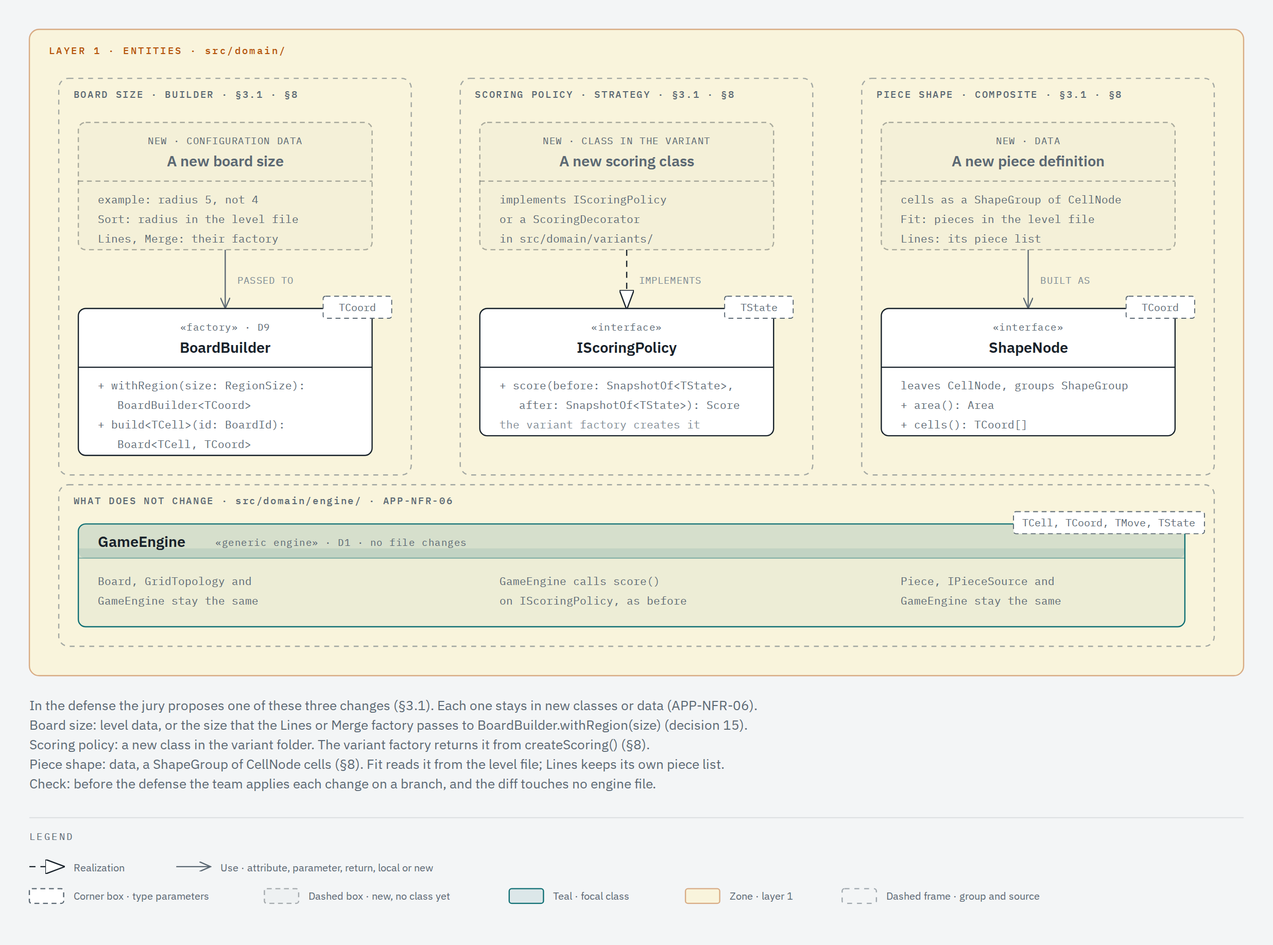
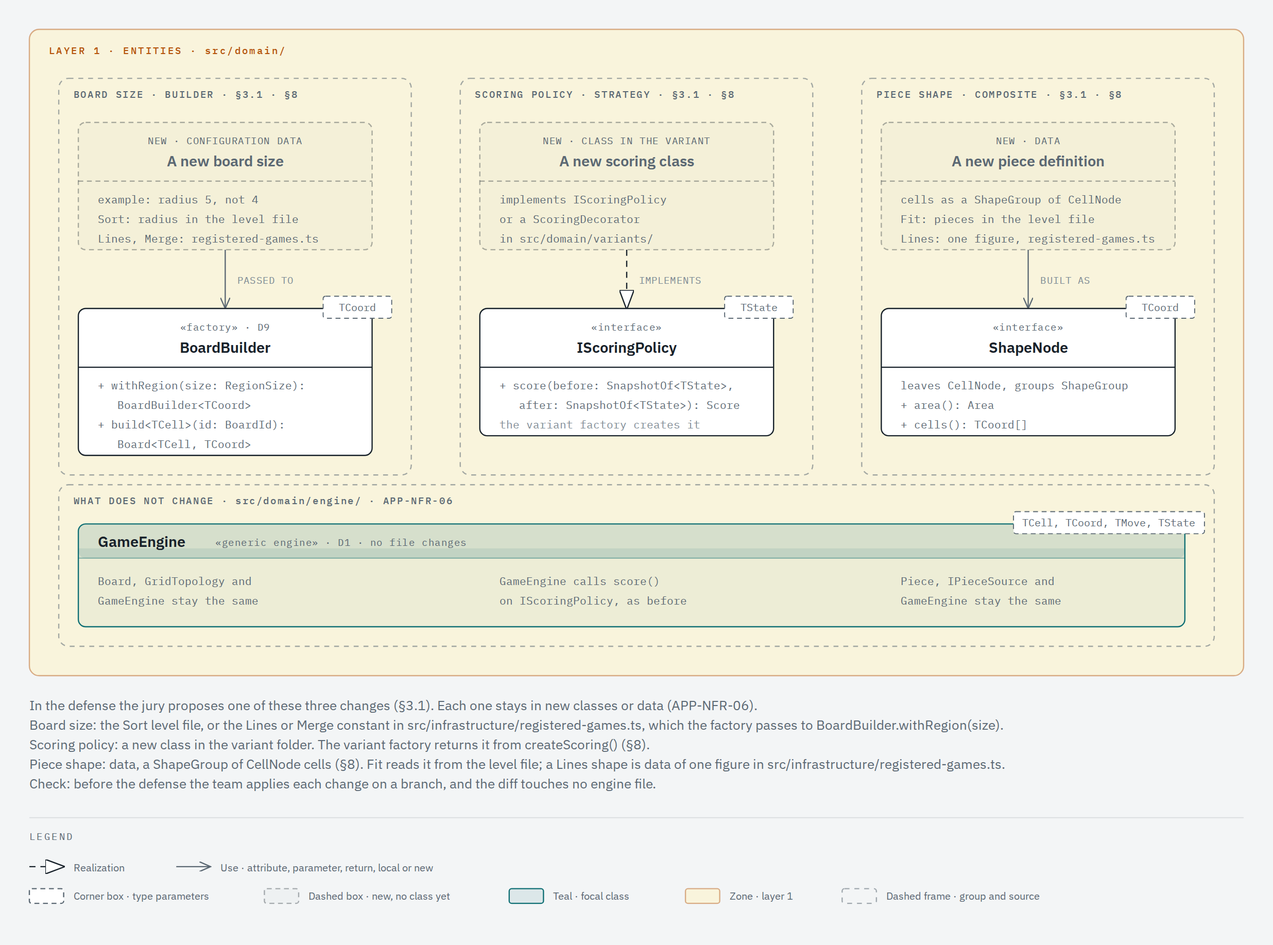
docs(extensibility): name the real place of each jury variation (#369)
The extensibility documents, view 2 and the geometry comments name
registered-games.ts as the place of a new board size and a new Lines
shape. One value gives the Merge board to MergeSettings and to the
slide controls through mergeOn(), and Sort keeps its own board.

diff --git a/src/infrastructure/registered-games.ts b/src/infrastructure/registered-games.ts
@@ -78,8 +78,12 @@ const SEEDS = 2 ** 32;
 // (19 cells), as docs/REQUIREMENTS.md §1 gives them. A hex region of size n has radius n - 1.
 // The square and the triangle take the same region sizes: 25 squares or 50 triangles
 // for Lines, and 9 squares or 18 triangles for Sort and Merge (#171).
+// Each game has its own value, so a new board size of one game changes one line here
+// (the jury variation «a new board size» of APP-NFR-06, issue #369).
+// The Merge value goes to `MergeSettings` and to the slide controls of the Merge screen.
 const LINES_BOARD = RegionSize.of(5);
-const SMALL_BOARD = RegionSize.of(3);
+const SORT_BOARD = RegionSize.of(3);
+const MERGE_BOARD = RegionSize.of(3);
 
 // The tile that a Merge player tries to make, as in 2048 (A3).
 const MERGE_TARGET = MergeTile.of(2048);
@@ -185,19 +189,30 @@ export function registeredGames<TCoord>(
       GameId.of('hexa-sort'),
       new SortFactory(
         geometry,
-        SortLevel.seeded(SMALL_BOARD, SORT_GOALS, seedFrom(random), nonEmpty(SORT_COLORS)),
+        SortLevel.seeded(SORT_BOARD, SORT_GOALS, seedFrom(random), nonEmpty(SORT_COLORS)),
       ),
       sortScreen(figure),
       worldTone(2),
       sortLevelVariant(geometry),
     ),
-    registered(
-      GameId.of('hexa-merge'),
-      new MergeFactory(geometry, MergeSettings.of(SMALL_BOARD, seedFrom(random), MERGE_TARGET)),
-      mergeScreen(figure),
-      worldTone(3),
-    ),
+    mergeOn(figure, random, MERGE_BOARD),
   ];
+}
+
+// The Hexa Merge entry on the board figure `figure`, with a board region of size `board`
+// and its seed from `random` (issue #369). The one value `board` goes to `MergeSettings`
+// and to the slide controls, so each way on the screen follows the lines of the board.
+export function mergeOn<TCoord>(
+  figure: BoardFigure<TCoord>,
+  random: RandomSource,
+  board: RegionSize,
+): RegisteredGame {
+  return registered(
+    GameId.of('hexa-merge'),
+    new MergeFactory(figure.geometry, MergeSettings.of(board, seedFrom(random), MERGE_TARGET)),
+    mergeScreen(figure, board),
+    worldTone(3),
+  );
 }
 
 // The shape of the origin cell of the board figure `figure` (issue #297), from the outline that
@@ -296,16 +311,17 @@ function sortScreen<TCoord>(
 
 // The screen parts of Hexa Merge on the board figure `figure` (#177): `MergeStateMapper`,
 // `MergeCellRenderer`, `MergeControls` with one slide for each axis and sense of the topology
-// of the figure, and the layout of the figure. The slides take the board region of the Merge
-// factory, so each way on the screen follows the lines of that board.
+// of the figure, and the layout of the figure. The slides take the board region `board`
+// of the Merge factory, so each way on the screen follows the lines of that board.
 function mergeScreen<TCoord>(
   figure: BoardFigure<TCoord>,
+  board: RegionSize,
 ): ScreenParts<MergeTile, TCoord, MergeView, MergeCellView, MergePayloadView, Slide<GridAxis>> {
   return {
     mapper: new MergeStateMapper(),
     renderer: new MergeCellRenderer(),
     controls: new MergeControls(
-      slideWays(figure.geometry.createTopology(), SMALL_BOARD, figure.layoutOf(1)),
+      slideWays(figure.geometry.createTopology(), board, figure.layoutOf(1)),
     ),
     layoutOf: (size) => figure.layoutOf(size),
   };

diff --git a/docs/architecture/extensibility/views/ext-2-jury-variations.html b/docs/architecture/extensibility/views/ext-2-jury-variations.html
@@ -73,12 +73,15 @@
         </title>
         <desc id="ext-2-jury-variations-desc">
           Three columns, one per jury variation of statement §3.1. A new board size is configuration
-          data passed to BoardBuilder.withRegion(size). A new scoring policy is a class that
-          implements IScoringPolicy or extends ScoringDecorator. A new piece shape is data, a
-          ShapeGroup of CellNode cells. Below them, GameEngine does not change. The policy reads two
-          photos of the state, before and after the move. No box carries a role label of a pattern:
-          the title of each frame names the pattern of its extension point, Builder, Strategy or
-          Composite.
+          data: the Sort level file, or the board constant of Lines or Merge in
+          src/infrastructure/registered-games.ts, which the factory passes to
+          BoardBuilder.withRegion(size). A new scoring policy is a class that implements
+          IScoringPolicy or extends ScoringDecorator in the variant folder. A new piece shape is
+          data, a ShapeGroup of CellNode cells: the Fit level file, or a Lines shape of one board
+          figure in src/infrastructure/registered-games.ts. Below them, GameEngine does not change.
+          The policy reads two photos of the state, before and after the move. No box carries a role
+          label of a pattern: the title of each frame names the pattern of its extension point,
+          Builder, Strategy or Composite.
         </desc>
         <defs>
           <marker
@@ -342,7 +345,7 @@
           Sort: radius in the level file
         </text>
         <text x="80" y="198" fill="#5b6873" font-size="9" font-family="'IBM Plex Mono', monospace">
-          Lines, Merge: their factory
+          Lines, Merge: registered-games.ts
         </text>
         <rect x="392" y="100" width="240" height="104" rx="6" fill="#f9f4dc" />
         <rect
@@ -446,7 +449,7 @@
           Fit: pieces in the level file
         </text>
         <text x="736" y="198" fill="#5b6873" font-size="9" font-family="'IBM Plex Mono', monospace">
-          Lines: its piece list
+          Lines: one figure, registered-games.ts
         </text>
         <!-- Row B: the extension point that takes it -->
         <!-- Class: BoardBuilder (DDD factory of the board; the frame names its pattern, decision 23) -->
@@ -735,8 +738,9 @@
           font-size="11"
           font-family="'IBM Plex Sans', sans-serif"
         >
-          Board size: level data, or the size that the Lines or Merge factory passes to
-          BoardBuilder.withRegion(size) (decision 15).
+          Board size: the Sort level file, or the Lines or Merge constant in
+          src/infrastructure/registered-games.ts, which the factory passes to
+          BoardBuilder.withRegion(size).
         </text>
         <text
           x="24"
@@ -756,7 +760,7 @@
           font-family="'IBM Plex Sans', sans-serif"
         >
           Piece shape: data, a ShapeGroup of CellNode cells (§8). Fit reads it from the level file;
-          Lines keeps its own piece list.
+          a Lines shape is data of one figure in src/infrastructure/registered-games.ts.
         </text>
         <text
           x="24"

diff --git a/test/infrastructure/ui/merge-board.test.tsx b/test/infrastructure/ui/merge-board.test.tsx
@@ -1,0 +1,67 @@
+import { render, screen } from '@testing-library/react-native';
+import { GestureHandlerRootView } from 'react-native-gesture-handler';
+
+import { textCatalog } from '../../../src/adapters/texts/text-catalog';
+import { Mulberry32Random } from '../../../src/domain/engine/mulberry32-random';
+import { RegionSize } from '../../../src/domain/engine/region-size';
+import { Seed } from '../../../src/domain/engine/seed';
+import { slideWays } from '../../../src/infrastructure/board/slide-ways';
+import { boardFigures, mergeOn } from '../../../src/infrastructure/registered-games';
+import { BOARD_ID } from '../../support/engine/entity-ids';
+
+// Issue #369: one value gives the board region of Hexa Merge to `MergeSettings` and to the slide
+// controls. On the triangle the way of a slide follows the longest line of the board,
+// so its angle depends on the size of the board: 7 degrees from the east for a region of size 3,
+// and 5 degrees for a region of size 4. A region of size 4 holds 32 triangles.
+
+// The rotations of the chevrons of the slide buttons, in whole degrees. The two arms
+// of each chevron turn 45 degrees and -45 degrees inside it, so the list leaves them out.
+function chevronTurns(): string[] {
+  const turns: string[] = [];
+  const visit = (node: unknown): void => {
+    if (node === null || typeof node !== 'object') return;
+    const { props, children } = node as { props?: { style?: unknown }; children?: unknown[] };
+    const styles = [props?.style].flat(Infinity) as { transform?: { rotate?: string }[] }[];
+    for (const style of styles) {
+      for (const step of style?.transform ?? []) {
+        if (step.rotate !== undefined && !['45deg', '-45deg'].includes(step.rotate)) {
+          turns.push(step.rotate);
+        }
+      }
+    }
+    for (const child of children ?? []) visit(child);
+  };
+  for (const button of screen.getAllByRole('button', { name: /^Deslizar/ })) visit(button);
+  return turns.sort();
+}
+
+describe('mergeOn', () => {
+  it('should_slide_along_the_lines_of_the_merge_board_when_the_merge_entry_takes_a_board_size', async () => {
+    const triangle = boardFigures()[2];
+    const size = RegionSize.of(4);
+
+    const entry = mergeOn(triangle, Mulberry32Random.from(Seed.of(1)), size);
+    const cells = entry.withFactory({
+      use: (_gameId, factory) => factory.createBoard(BOARD_ID).coordinates().length,
+    });
+    await render(
+      <GestureHandlerRootView>
+        {entry.screen.controls.render({
+          model: { back: '', board: '', cells: [], scoreLabel: '', score: 0, outcome: '' },
+          texts: textCatalog.es,
+          layoutOf: (cellSize) => entry.screen.layoutOf(cellSize),
+          play: jest.fn(),
+          undo: jest.fn(),
+          redo: jest.fn(),
+          board: () => null,
+        })}
+      </GestureHandlerRootView>,
+    );
+
+    const expected = slideWays(triangle.geometry.createTopology(), size, triangle.layoutOf(1))
+      .map((way) => `${Math.round((way.angle * 180) / Math.PI)}deg`)
+      .sort();
+    expect(cells).toBe(32);
+    expect(chevronTurns()).toEqual(expected);
+  });
+});

diff --git a/src/domain/engine/square-geometry.ts b/src/domain/engine/square-geometry.ts
@@ -6,7 +6,9 @@ import { square, SquareTopology, type SquareCoord } from './square-topology';
 // The statement gives 1 to 5 cells per piece and no list, so this list is a design choice.
 // The list has the same seven forms as the hexagonal list, so the figure of the board
 // does not change the sizes of the pieces (APP-FR-16).
-// A new shape is one new line (the piece shape row of statement §8).
+// This list is the base set of the family, for every game on this figure.
+// A jury variation never edits it (APP-NFR-06): a new Lines shape is data of one board figure
+// in src/infrastructure/registered-games.ts (docs/EXTENSIBILITY.md, issue #369).
 const pieces: readonly (readonly SquareCoord[])[] = [
   [square(0, 0)],
   [square(0, 0), square(1, 0)],

diff --git a/src/domain/engine/triangle-geometry.ts b/src/domain/engine/triangle-geometry.ts
@@ -8,7 +8,9 @@ import { triangle, TriangleTopology, type TriangleCoord } from './triangle-topol
 // A translation keeps the orientation of each triangle, so a piece covers only cells
 // of its own orientations. The list holds 11 up triangles and 11 down triangles,
 // so the pieces can fill both kinds of cell.
-// A new shape is one new line (the piece shape row of statement §8).
+// This list is the base set of the family, for every game on this figure.
+// A jury variation never edits it (APP-NFR-06): a new Lines shape is data of one board figure
+// in src/infrastructure/registered-games.ts (docs/EXTENSIBILITY.md, issue #369).
 const pieces: readonly (readonly TriangleCoord[])[] = [
   [triangle(0, 0)],
   [triangle(0, 0), triangle(1, 0)],

diff --git a/src/domain/engine/hex-geometry.ts b/src/domain/engine/hex-geometry.ts
@@ -4,7 +4,9 @@ import { CellNode, ShapeGroup, type ShapeNode } from './shape-node';
 
 // The piece shapes as data. Each cell is relative to the origin of the piece.
 // The statement gives 1 to 5 cells per piece and no list, so this list is a design choice.
-// A new shape is one new line (the piece shape row of statement §8).
+// This list is the base set of the family, for every game on this figure.
+// A jury variation never edits it (APP-NFR-06): a new Lines shape is data of one board figure
+// in src/infrastructure/registered-games.ts (docs/EXTENSIBILITY.md, issue #369).
 const pieces: readonly (readonly HexCoord[])[] = [
   [hex(0, 0)],
   [hex(0, 0), hex(1, 0)],

diff --git a/docs/EXTENSIBILITY.md b/docs/EXTENSIBILITY.md
@@ -2,7 +2,7 @@
 
 This page explains how to add a fifth variant. The example is Hexa Fill, the game that statement §3.1 names («por ejemplo, Hexa Fill: pintar celdas con restricciones»). Its rules are not designed yet, so every `Fill` name below is a placeholder.
 
-The steps follow the [class diagram](architecture/classes.md) and the [extensibility diagram](architecture/extensibility.md). The engine, the four variants and the first use cases exist in `src/`. The composition root and its game registry exist too (#162), and so do the home screen, the game selector map and `HomePresenter` (#169), and the figure selector of the home screen (#171). The other classes of layers 3 and 4 that the steps name are planned. Some engine classes are planned too, for example the progress models and `RedoableHistory`. When a planned class exists, this page names its real file.
+The steps follow the [class diagram](architecture/classes.md) and the [extensibility diagram](architecture/extensibility.md). The engine, the four variants and the first use cases exist in `src/`. The composition root and its game registry exist too (#162), and so do the home screen, the game selector map and `HomePresenter` (#169), and the figure selector of the home screen (#171). The other classes of layers 3 and 4 that the steps name exist too: the state mappers in `src/adapters/`, the cell renderers in `src/infrastructure/board/`, and the move controls [`LinesControls`](../src/infrastructure/ui/lines-controls.tsx), [`FitControls`](../src/infrastructure/ui/fit-controls.tsx), [`SortControls`](../src/infrastructure/ui/sort-controls.tsx) and [`MergeControls`](../src/infrastructure/ui/merge-controls.tsx) in `src/infrastructure/ui/` (#174 to #177). The engine classes that the steps name exist: the progress models `HighScoreProgress` and `LevelProgress` in [`progress-model.ts`](../src/domain/engine/progress-model.ts), and [`RedoableHistory`](../src/domain/engine/redoable-history.ts), which `FitFactory` picks.
 
 ## The rule
 
@@ -65,9 +65,36 @@ If Hexa Fill keeps levels on the backend, the backend adds a section for it in t
 | 4     | `CompositionRoot`, `GameRegistry`, the HTTP client and repositories, the drivers, `BoardView`, `AudioManager`, and the home, game selector map, game, level selector, victory and defeat routes                                                                                                                                                                                                   |
 | gates | `.dependency-cruiser.cjs` and the architecture tests                                                                                                                                                                                                                                                                                                                                              |
 
+## The three jury variations
+
+In the defense the jury proposes «un nuevo tamaño de tablero, una política de puntuación distinta o una nueva forma de pieza» (§3.1). Each variation below names its real file. No variation edits a file of `src/domain/engine/`, of `src/application/` or of another variant (APP-NFR-06). A comment of an engine file is part of the engine too. View 2 of the [extensibility diagram](architecture/extensibility.md) draws the same places.
+
+### A new board size
+
+1. For Hexa Lines or Hexa Merge, change the constant of the game in [`src/infrastructure/registered-games.ts`](../src/infrastructure/registered-games.ts): `LINES_BOARD` or `MERGE_BOARD`. Each game has its own constant, so the change resizes one game only. The factory passes the size to `BoardBuilder.withRegion(size)`, and no factory file changes. For Hexa Merge, `mergeOn()` gives the one value to `MergeSettings.of()` and to the slide controls of the Merge screen, so the ways on the screen follow the lines of the new board (#369).
+2. For Hexa Sort, change `radius` in the level file of the level, in `src/adapters/levels/sort/`. `SortLevelBuilder` turns it into the `RegionSize` of the board. `SORT_BOARD` in `registered-games.ts` is the size of the seeded Sort level of the first content.
+3. Edit the expected numbers of the outer-layer tests that pin a board size: `should_build_each_board_on_the_geometry_of_the_figure_when_the_figure_is_chosen` in `test/infrastructure/composition-root.test.ts`, which counts the cells of each board on each figure, and `FOUR_BOARDS` in `test/app/game-screen.test.tsx`, which counts the spaces of the first board of each game. A region of size n holds 3n(n − 1) + 1 hexagons, n² squares or 2n² triangles.
+4. Change the board row of the comparison table in `docs/REQUIREMENTS.md` §1, for example «Hexagon, radius 2 (19 cells)» (rule R-requirements in `AGENTS.md`).
+
+### A new scoring policy
+
+1. In the folder of the variant, `src/domain/variants/hexa-<name>/`, write a class that implements `IScoringPolicy<TState>`, or a bonus that extends the engine `ScoringDecorator`.
+2. Return it from `createScoring()` of the factory of the variant, for example `merge-factory.ts`. This line is a change of the same variant, not of the engine.
+3. Test the policy in its own suite in `test/domain/variants/hexa-<name>/`, and test the factory line in the factory suite.
+4. When the class bounds a type parameter, add a row to the README table «Variant bounds». `test/docs/generic-bounds.test.ts` fails on a bound in a variant folder with no row (APP-NFR-05).
+5. When the policy changes the points of the game, change the README section «Scoring» (APP-FR-06). `test/docs/scoring-docs.test.ts` checks it. Add the class to the `IScoringPolicy` row of the extension-points table of the [extensibility diagram](architecture/extensibility.md).
+
+### A new piece shape
+
+A shape is data of one figure. It cannot be written once for every figure: the same pair of numbers names another cell on the triangle than on the hexagon.
+
+1. For Hexa Fit, add the piece to `pieces` in the level file, in `src/adapters/levels/fit/`, or to `firstFitLevel()` in `registered-games.ts` for the level of the first content. `FitLevelBuilder` checks it.
+2. For Hexa Lines, add the shape as data of its board figure in [`src/infrastructure/registered-games.ts`](../src/infrastructure/registered-games.ts), and give `LinesSettings.of()` the shapes of the geometry followed by the shapes of the figure. The first shape of a figure also adds the optional list `linesShapes` to `BoardFigure` and fills it in `boardFigures()`, as the rehearsal branch `odjaramillo/app-53-rehearsal-piece-shape` does. The lists in `HexGeometry`, `SquareGeometry` and `TriangleGeometry` are the base set of each geometry family, and they do not change.
+3. Test that the Lines pieces of that figure include the new shape, in a test of `test/infrastructure/` that draws the pieces of the registry entry.
+
 ## Check
 
-Before the defense, a branch adds Hexa Fill with these steps. Its diff must touch no file under `src/domain/engine/`, `src/application/` or the four other variant folders (APP-NFR-06). The same check applies to the three jury variations in view 2 of the [extensibility diagram](architecture/extensibility.md): a new board size, a new scoring policy and a new piece shape.
+Before the defense, a branch adds Hexa Fill with these steps. Its diff must touch no file under `src/domain/engine/`, `src/application/` or the four other variant folders (APP-NFR-06). The same check applies to the [three jury variations](#the-three-jury-variations): a new board size, a new scoring policy and a new piece shape.
 
 ### Rehearsal of 2026-11-25
 
@@ -79,11 +106,11 @@ The base is `main` at `3ca471d`. Each jury variation is one commit on its own br
 | New scoring policy | `odjaramillo/app-53-rehearsal-scoring-policy`, `4a433db` | In Hexa Merge, the slide that first makes the target tile scores a bonus of 1000 points.                               | New `src/domain/variants/hexa-merge/target-bonus-decorator.ts`, which extends the engine `ScoringDecorator`, with its test; one line of `createScoring()` in `merge-factory.ts`, with its test                        | 176 suites, 1803 tests |
 | New piece shape    | `odjaramillo/app-53-rehearsal-piece-shape`, `87c72ec`    | Hexa Lines on the hexagon draws one more shape, a hook of four cells.                                                  | `src/infrastructure/registered-games.ts` (the shape is data of the hexagon figure, added to the shapes of the geometry), new `test/infrastructure/registered-games.test.ts`                                           | 176 suites, 1800 tests |
 
-The rehearsal showed these facts. [#369](https://github.com/Hexablock-Suite/hexablock-app/issues/369) holds the fixes.
+The rehearsal showed these facts, and [#369](https://github.com/Hexablock-Suite/hexablock-app/issues/369) fixed the documents and the code:
 
-- The place of a board size and of a Lines piece shape is `src/infrastructure/registered-games.ts`. This page and view 2 of the [extensibility diagram](architecture/extensibility.md) do not name that file as their place.
-- The comments of the three geometry files of the engine say «A new shape is one new line». They send a developer to an engine file.
-- A size change edits the expected numbers of two outer-layer tests.
-- A new generic bound in a variant folder needs a row in the README table «Variant bounds» (`test/docs/generic-bounds.test.ts`).
+- The place of a board size and of a Lines piece shape is `src/infrastructure/registered-games.ts`. The section «The three jury variations» and view 2 of the [extensibility diagram](architecture/extensibility.md) now name that file.
+- The comments of the three geometry files of the engine said «A new shape is one new line», and sent a developer to an engine file. They now name the file of a new Lines shape.
+- Sort and Merge shared one board constant, and the slide controls of Merge read it apart from `MergeSettings`. Each game now has its own constant, and `mergeOn()` gives the Merge value to both.
+- A size change edits the expected numbers of two outer-layer tests, and a new generic bound in a variant folder needs a row in the README table «Variant bounds». The steps above name both.
 
 To repeat the rehearsal before the defense, cherry-pick the commit of each branch on the `main` of that day. Then run `pnpm verify` and the `git diff --name-only` check above.

diff --git a/docs/architecture/extensibility.md b/docs/architecture/extensibility.md
@@ -30,15 +30,15 @@ The engine sits in the center of layer 1. Around it are the interfaces that a fi
 
 ## View 2: the jury variations
 
-In the defense the jury proposes «un nuevo tamaño de tablero, una política de puntuación distinta o una nueva forma de pieza» (§3.1). Each change is new data or a new class, and the engine does not change (APP-NFR-06).
+In the defense the jury proposes «un nuevo tamaño de tablero, una política de puntuación distinta o una nueva forma de pieza» (§3.1). Each change is new data or a new class, and the engine does not change (APP-NFR-06). The section «The three jury variations» of [`docs/EXTENSIBILITY.md`](../EXTENSIBILITY.md#the-three-jury-variations) gives the steps of each one, with the tests and the documents that change with it.
 
-![The three jury variations: a new board size is data passed to BoardBuilder.withRegion(size); a new scoring policy is a class that implements IScoringPolicy or extends ScoringDecorator; a new piece shape is a ShapeGroup of CellNode cells; GameEngine does not change](extensibility/views/ext-2-jury-variations.png)
+![The three jury variations: a new board size is the Sort level file or the constant of the Lines or Merge board in registered-games.ts, which the factory passes to BoardBuilder.withRegion(size); a new scoring policy is a class in the variant folder that implements IScoringPolicy or extends ScoringDecorator; a new piece shape is a ShapeGroup of CellNode cells, in the Fit level file or as data of one board figure in registered-games.ts for Lines; GameEngine does not change](extensibility/views/ext-2-jury-variations.png)
 
-| Variation      | What is new                                                                                | Where it lives                                                                                                                                                                                 | What does not change                          |
-| -------------- | ------------------------------------------------------------------------------------------ | ---------------------------------------------------------------------------------------------------------------------------------------------------------------------------------------------- | --------------------------------------------- |
-| Board size     | A size value: configuration data (§8)                                                      | The Sort level file (`radius`, which `SortLevelBuilder` turns into the `RegionSize` of the board), or the size that `LinesFactory` or `MergeFactory` passes to `BoardBuilder.withRegion(size)` | `Board`, `GridTopology`, `GameEngine`         |
-| Scoring policy | A class that implements `IScoringPolicy<TState>`, or a `ScoringDecorator` for a bonus (§8) | The variant folder, `src/domain/variants/<variant>/`. The variant factory returns it from `createScoring()`                                                                                    | `GameEngine`, which calls `score()` as before |
-| Piece shape    | A piece definition as data: a `ShapeGroup` of `CellNode` cells (§8)                        | The Fit level file (`FitLevel.pieces`), or the piece list of the variant                                                                                                                       | `Piece`, `IPieceSource`, `GameEngine`         |
+| Variation      | What is new                                                                                | Where it lives                                                                                                                                                                                                                                                                                                                        | What does not change                                                            |
+| -------------- | ------------------------------------------------------------------------------------------ | ------------------------------------------------------------------------------------------------------------------------------------------------------------------------------------------------------------------------------------------------------------------------------------------------------------------------------------- | ------------------------------------------------------------------------------- |
+| Board size     | A size value: configuration data (§8)                                                      | The Sort level file (`radius`, which `SortLevelBuilder` turns into the `RegionSize` of the board), or the constant of the game in `src/infrastructure/registered-games.ts`: `LINES_BOARD` or `MERGE_BOARD`. The factory passes it to `BoardBuilder.withRegion(size)`, and `mergeOn()` gives the Merge value to the slide controls too | `Board`, `GridTopology`, the variant factory, `GameEngine`                      |
+| Scoring policy | A class that implements `IScoringPolicy<TState>`, or a `ScoringDecorator` for a bonus (§8) | The variant folder, `src/domain/variants/<variant>/`. The variant factory returns it from `createScoring()`                                                                                                                                                                                                                           | `GameEngine`, which calls `score()` as before                                   |
+| Piece shape    | A piece definition as data: a `ShapeGroup` of `CellNode` cells (§8)                        | The Fit level file (`FitLevel.pieces`), or for Hexa Lines the data of one board figure in `src/infrastructure/registered-games.ts`, after the shapes of the geometry                                                                                                                                                                  | `Piece`, `IPieceSource`, `GameEngine`, the piece lists of the geometry families |
 
 ## View 3: the geometry axis
 
@@ -80,7 +80,9 @@ Each row is one extension point. Each cell names the class or the type argument 
 | `GameEvent`                          | `LineCleared`                              | —                                                              | `StackMerged`                                       | `TileMerged`, `TargetReached`          | —                                      |
 | `StateMapper` (layer 3)              | `LinesStateMapper`                         | `FitStateMapper`                                               | `SortStateMapper`                                   | `MergeStateMapper`                     | `FillStateMapper`                      |
 | `CellRenderer` (layer 4, Q8)         | `LinesCellRenderer`                        | `FitCellRenderer`                                              | `SortCellRenderer`                                  | `MergeCellRenderer`                    | `FillCellRenderer`                     |
-| `MoveControls` (layer 4)             | planned with #174                          | `FitControls`                                                  | planned with #176                                   | `MergeControls`                        | `FillControls`                         |
+| `MoveControls` (layer 4)             | `LinesControls`                            | `FitControls`                                                  | `SortControls`                                      | `MergeControls`                        | `FillControls`                         |
+
+The move controls live in `src/infrastructure/ui/`: `LinesControls` in `lines-controls.tsx`, `FitControls` in `fit-controls.tsx`, `SortControls` in `sort-controls.tsx` and `MergeControls` in `merge-controls.tsx`. `src/infrastructure/registered-games.ts` gives each game its controls (#174 to #177).
 
 The `TState` of a variant implements `BoardState`: it is an entity with its own `GameStateId` that keeps the `MatchId` of its game, and it changes in place only through its own business methods, so `FillState` would bring its own methods and its rules would call them (decisions 7 and 26 of [classes.md](classes.md)). `createInitialState(matchId, stateId, boardId)` gives the first state its two ids and its board the `BoardId`.
 

diff --git a/docs/architecture/flows.md b/docs/architecture/flows.md
@@ -133,7 +133,7 @@ Each other use case follows the path of one flow above. Its own classes are in t
 - Flow 2: `SaveProgress`, the `ProgressRepository` port, `GameProgress` and `LocalProgressRepository` are code since #164, but the composition root does not build `SaveProgress` yet. `VictoryScreen`, `ResultPresenter`, `ApiDtoMapper.toProgressDto()` and `ApiClient.syncProgress()` are planned. The class view and the sequence diagram of flow 2 still show the path before D27, where `ApiProgressRepository` implements `ProgressRepository`. #46 draws them again with `SyncProgress` and its gateway port, which have no code yet.
 - The route path of `ProgressController.sync()` waits on the OpenAPI export of the endpoint.
 - `ListLevels`, the `LevelRepository` port and `BundledLevelRepository` are code since #168, but the composition root does not build `ListLevels` yet, because no screen calls it. Its request holds the game and the chosen figure. It lists only the levels of that figure, in the order of their files, and each level is completed, open or locked (decision 58 of [classes.md](classes.md); S3-12 and S3-08 in #151, «Propuesta, pendiente del equipo»). A figure with no level gives an empty list.
-- Flow 1: the move controls of `GameScreen` are planned (#174 to #177). `GamePresenter.onEvent(event: GameEvent)` is a planned member, for `GameEventBus` (view 4.3 of [classes.md](classes.md)).
+- Flow 1: the move controls of `GameScreen` exist: `LinesControls`, `FitControls`, `SortControls` and `MergeControls` in `src/infrastructure/ui/` (#174 to #177), and `src/infrastructure/registered-games.ts` gives each game its controls. `GamePresenter.onEvent(event: GameEvent)` is a planned member, for `GameEventBus` (view 4.3 of [classes.md](classes.md)).
 - Flow 3: `StartGameRequest.levelId`, the `GameFactories` port, `LevelGameFactories` and `GamePresenter.onStart(levelId?)` are code since #172 (decision 59 of [classes.md](classes.md); S3-13 in #151, «Propuesta, pendiente del equipo»). The level definition reaches the level builder through `LevelGameFactories`: it asks `LevelRepository.levelOf()` for the definition of the chosen level, and the `LevelVariant` of the game creates the level builder of the variant and gives it to `LevelDefinition.buildWith()`, which directs it. The game screen does not pass a level id yet: the level selector of #173 does. Until then a start of Fit or Sort with no level id gets the first-content level that the registry holds. The sequence diagram draws the code: each variant factory calls `BoardBuilder`.
 - Flow 4: `GamePresenter.undoMove` and `GamePresenter.onUndo()` exist since #178, with `redoMove` and `onRedo()`; the move controls of the game show the buttons, and `FitControls` show both. `MoveHistory.undo()` returns `void`, and `GameEngine` takes the state back through its private `restore(memento)`: the engine gives each `MoveCommand` this method as a function (decision 34, #159). Since #178 each `MoveCommand` also keeps `after`, the photo after its move, and `redo()` gives it back through the same function.
 - Flow 5: `AccountPresenter.login`, `AccountPresenter.onLogin(credentials: Credentials)`, the `client` and `mapper` attributes of `ApiAccountGateway`, `ApiDtoMapper.toCredentialsDto()`, `ApiDtoMapper.toSession()` and `ApiClient.signIn()` are planned members. No view gives `Credentials` a member. The endpoint name follows view 3.3 of the API class diagram: `AuthController.signIn(body: CredentialsDto): Promise<TokenDto>`. The answer to a rejected sign-in, a rejected `Promise` that `Login` turns into `Result.failure(error)`, is an assumption for team review.
